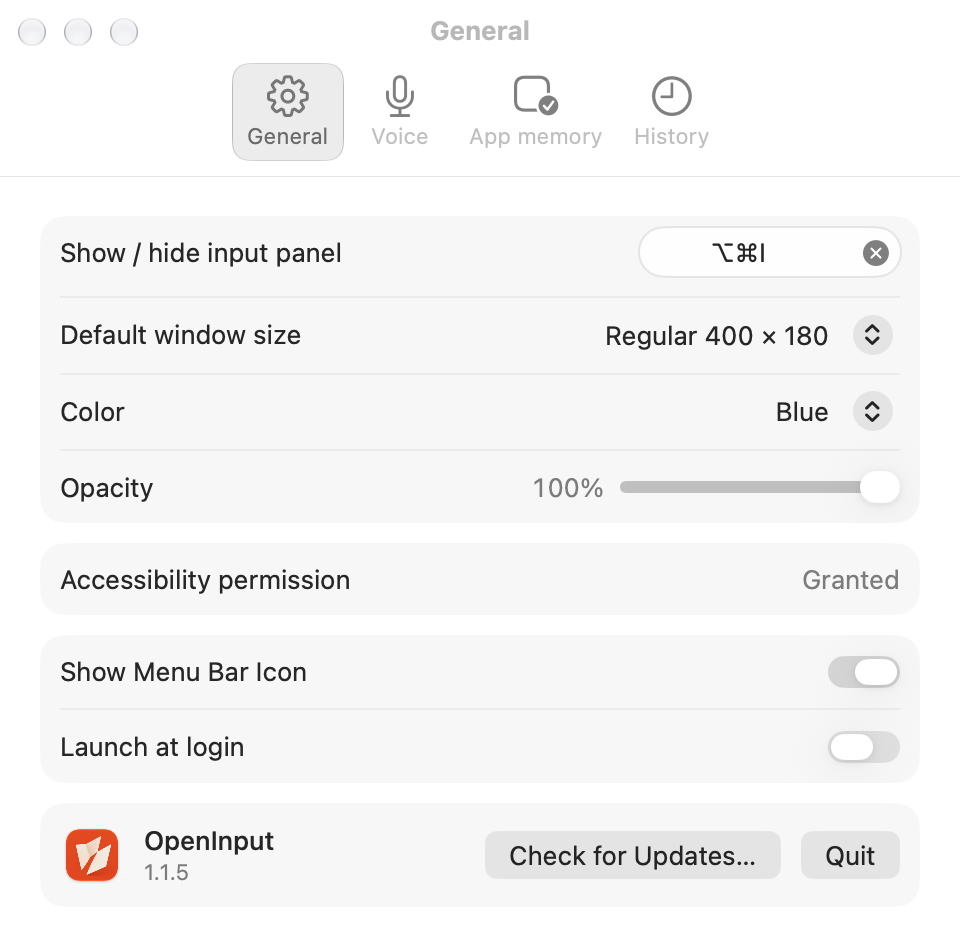
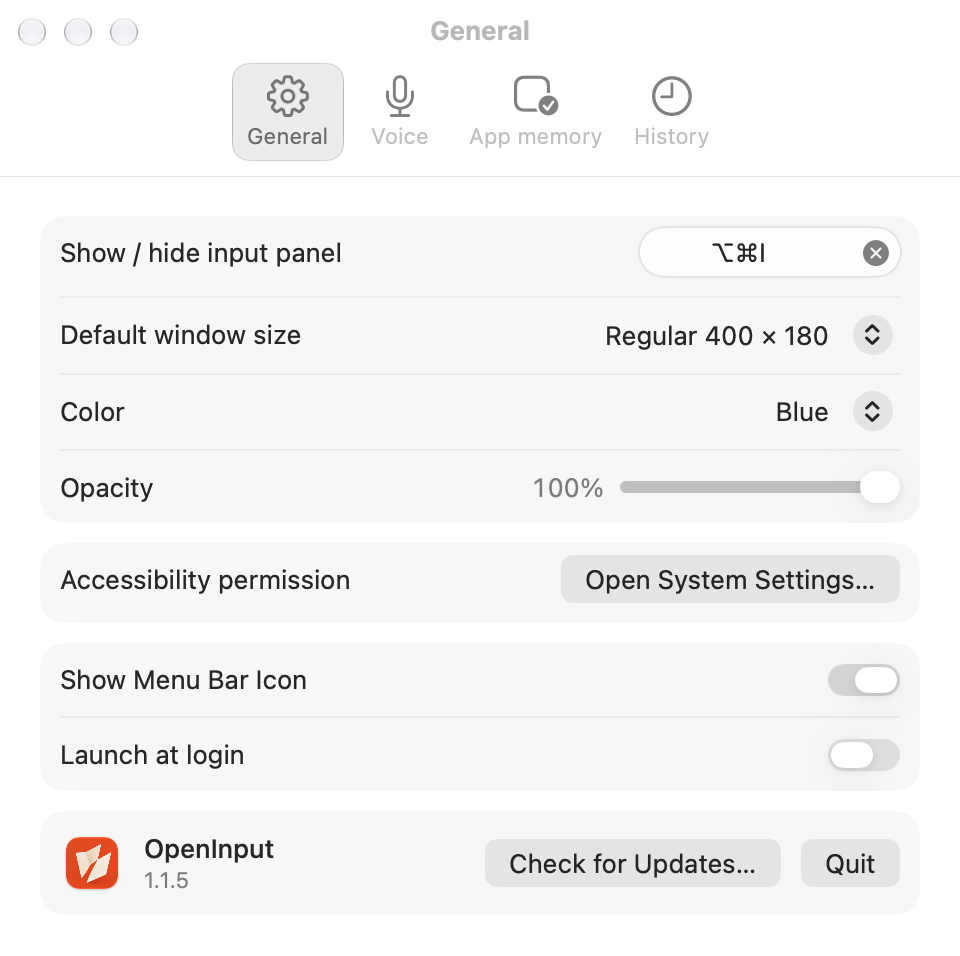
Record verified OpenInput 1.1.5 settings delivery

diff --git a/docs/OPERATIONS_GUIDE.md b/docs/OPERATIONS_GUIDE.md
@@ -161,4 +161,15 @@ Release-runner scripts, exit receipts and complete top-level logs belong under `
 
 For 1.1.5, app submission cdc5d44a-3a02-4327-9ece-a7bc76661146 was Accepted and the stapled universal app was installed and its native menu Settings surface captured. The DMG submit then exited with Network.NWError 54; history showed 8e289ef3-1420-458b-b06c-a38bb9ab077e In Progress, which does not establish completed upload ([Apple DTS](https://developer.apple.com/forums/thread/840373)). Retain the accepted app. Retry only the failed DMG upload with persistent stdout/status receipts; once Accepted and stapled, `scripts/publish-release.sh --resume-notarized` verifies existing app/DMG tickets, versions and unchanged app build inputs against PREPARED_SOURCE_COMMIT, then continues installation, signed feed generation and publication. Never rerun archive or resubmit the accepted app for an attachment/DMG-transport failure.
 
-The accelerated DMG upload was confirmed to fail twice with NWError 54 while the app upload was Accepted. The next transport attempt uses the installed CLI's `--no-s3-acceleration`, as documented by [Apple's notarization workflow](https://developer.apple.com/documentation/security/customizing-the-notarization-workflow). This switches only that upload to the standard S3 endpoint; it does not change system proxy routing or signing credentials. Acceptance of this retry must come from its own receipt/ticket, not from either earlier In Progress history entry.
+The accelerated DMG upload failed twice with NWError 54 while the app upload was Accepted. Retrying with the installed CLI's `--no-s3-acceleration`, documented by [Apple's notarization workflow](https://developer.apple.com/documentation/security/customizing-the-notarization-workflow), completed with Accepted submission `6c1f185d-76b7-477f-b8ec-bd4f40a485e6`; the DMG ticket was stapled and validated. This changed only that upload endpoint, without changing system proxy routing or signing credentials. Neither earlier In Progress history entry is the successful receipt.
+
+### Verified 1.1.5 delivery
+
+- App build inputs are committed in `7bad8ff`. A clean universal Release archive and Developer ID export passed; the complete archive/export logs remain in `build/release/`. The only archive warning was the individually assessed AppIntents metadata skip above. No test target exists; build/analyzer evidence does not establish physical interaction acceptance.
[1 lines of base64/hex data omitted]
+- The resume runner initially exited nonzero because the anonymous latest redirect still served an older feed after asset upload. Marking this release latest and independently downloading the plain latest feed resolved that remaining check; retain the original failed receipt alongside the later successful download evidence. Do not describe the original runner as wholly successful.
+- `/Applications/OpenInput.app` reads 1.1.5 (10), contains arm64/x86_64, passes deep strict signature and stapled-ticket validation, and runs as exactly one installed instance after the capture session. All 84 files and six symbolic links match the anonymously downloaded ZIP. Its native app-menu Settings action opened all four English/light panes and the Chinese/light General pane. General is 480×478 points (including the accessibility-denied action), Voice 480×391, App Memory/History 480×488; all settings and fixed actions fit without scrolling or clipping. The earlier History capture failed transiently; a fresh launch, PID/window enumeration and bounded display wake passed that same pane on 2026-10-21.
+- English/light and Chinese/dark Debug captures cover every pane of the same SettingsView. Formal Voice shows the microphone-not-yet-requested action. No permission request, listening, text injection or destructive content action was invoked. Existing history/app-memory JSON checksums remained unchanged after formal acceptance. Restore ordinary Release launch without inspection/language/pane arguments afterward; README uses the formal English General capture, without user content.
+- Physical keyboard/VoiceOver, conditional login approval, microphone-denied UI and macOS 14 runtime remain unverified. Mirror's separate delivery and other agents' products are outside this acceptance record.
+
+Persistent runner/status, notarization and anonymous-download receipts are under `~/.config/openinput/development/settings-delivery-1.1.5/`. Temporary app-memory/history screenshots contain user data and must not be published.

diff --git a/docs/PREFERENCES_KNOWLEDGE_BASE.md b/docs/PREFERENCES_KNOWLEDGE_BASE.md
@@ -110,8 +110,9 @@ AppMemoryStore 同样有旧键迁移（`autoShowMasterEnabled` → `appMemory.au
 | `panel.opacity` | `1.0` | Double | 面板不透明度 | clamp 0.35...1.0 |
 | `panel.defaultSize` | `.regular` | string enum | 默认窗口尺寸 | compact/regular/large |
 | `panel.windowFrame` | 默认尺寸 | JSON | 面板 frame 记忆 | CodableRect 编码 |
+| `settings.selectedPane` | `.general` | String enum | Last settings pane | `general` / `voice` / `apps` / `history` |
 | `insertion.method` | `.paste` | string enum | 注入方式 | typing 未启用 |
-| `insertion.autoSpaces` | `false` | Bool | 自动加空格 | 未启用（控件 disabled）|
+| `insertion.autoSpaces` | `false` | Bool | 自动加空格 | 未启用，不在设置中展示；保留存储键 |
 | `general.launchAtLogin` | `false` | Bool | 登录启动偏好 | 界面以系统真实状态为准；待批准时开关为关 |
 | `menuBar.iconVisible` | `true`（键不存在也是显示） | Bool | 是否显示菜单栏图标 | 用键是否存在判断，禁止把空当成关 |
 | `appMemory.autoShowMaster` | `true` | Bool | 自动弹出总开关 | 独立于 PreferencesKeys |
@@ -149,7 +150,7 @@ AppMemoryStore 同样有旧键迁移（`autoShowMasterEnabled` → `appMemory.au
 - 【禁止】替 ad-hoc Debug 自动重装 LaunchAgent。
 - 【禁止】新增偏好时漏掉 `menuBar.iconVisible` 的「键不存在 = 显示」。
 - 【隐性依赖】`PreferencesStore.shared` 必须在任何偏好读取前初始化一次（AppDelegate 已做）——`private init` 里执行迁移，绕过多实例会用默认值。
-- 【隐性】无启动注册 AUTO：`(autoAddSpaces) / (insertion.method=typing)` 在 UI 是 disabled，逻辑未启用——改设置页前先读这里，不要让 AI 误以为能用。
+- `autoAddSpaces` and `insertion.method=typing` remain unimplemented and are not exposed in Settings. Their existing storage keys are retained; removing the former disabled controls does not enable either behavior.
 - 【隐性】窗口尺寸切换 (`defaultWindowSize`) 时立即 `resetWindowSizeToDefault` 重置窗位 —— 不改偏好则窗口仍保持记忆 frame。
 - 【叫法统一】偏好主称谓 = `PreferencesStore`；「登录启动」= LaunchAtLoginService；「自动弹出记忆」单独在 AppMemoryStore，**不要**与偏好库混淆。
 
@@ -189,3 +190,5 @@ AppMemoryStore 同样有旧键迁移（`autoShowMasterEnabled` → `appMemory.au
 ### 1.1.5 static visual acceptance
 
 Native Settings-scene inspection of the installed Debug app passed all four panes in English/light and Simplified Chinese/dark. Width is 480 points; complete window heights are General 474, Voice 391, App Memory/History 488. Images were inspected at preserved pixel dimensions. Real app-memory/history rows were displayed without changing their data. Native switches, aligned picker/slider controls, all toolbar labels, app/version/update/quit and history search are visible; no settings scrollbar or clipped settings row. The final replacement-prompt correction was separately recaptured and inspected in both languages/appearances; the native fields display their prompts with no wrapping or extracted outer labels. Conditional login approval, microphone denial/older OS and physical keyboard/VoiceOver remain unverified under lock; the formal installed General pane also covered the accessibility-denied state; no microphone or destructive user-content action was invoked.
+
+The notarized 1.1.5 (10) Release subsequently passed native-menu opening and inspected English/light captures of all four panes, plus Chinese/light General. The accessibility-denied General pane is 478 points high; its system-settings action fits. Voice, App Memory and History retain the heights above. History search and bottom actions are visible with a real row; static evidence does not establish searching, deletion or keyboard behavior. Installed artifact, public-download checks and remaining limits are recorded in [Operations: verified delivery](OPERATIONS_GUIDE.md#verified-115-delivery).

diff --git a/TASKBOARD.md b/TASKBOARD.md
@@ -5,4 +5,3 @@
 | 任务 | 状态 | 影响范围 | 开始 | 最近更新 | 备注 |
 |---|---|---|---|---|---|
 | kh_apple_utilities doc-reference: PREFERENCES_KB §6 → prefs §二 (docs only, no key migration) | 进行中 | docs/PREFERENCES_KNOWLEDGE_BASE.md | 2026-10-09 | 2026-10-09 | Coordinator-accepted slice; own row, leave for acceptance |
-| Codex fork / remaining-settings: native Settings retrofit  | 验证中 | UI/Settings、UI/History/HistorySettingsView、设置窗口入口、PreferencesKeys、Models/AppPreferences、InputPanel 同源焦点描边、Speech/TextRefinement 诊断修正、发布脚本、AGENTS 焦点规则、偏好 KB §1/4/7/9（避开 §6 doc-reference）、OPERATIONS、project.yml、正式构建发布安装验收 | 15:32 | 2026-10-19 16:03 | Mirror 1.0.13 已发布安装终检；OpenInput 1.1.5(10) 英浅/中深四页静态验收通过，正式归档发布中，保留活跃 build/release 制品，runner/日志在 ~/.config/openinput/development/settings-delivery-1.1.5；Corral 归原会话；保留现有文档任务，进入偏好文档编辑前重读看板。 |
